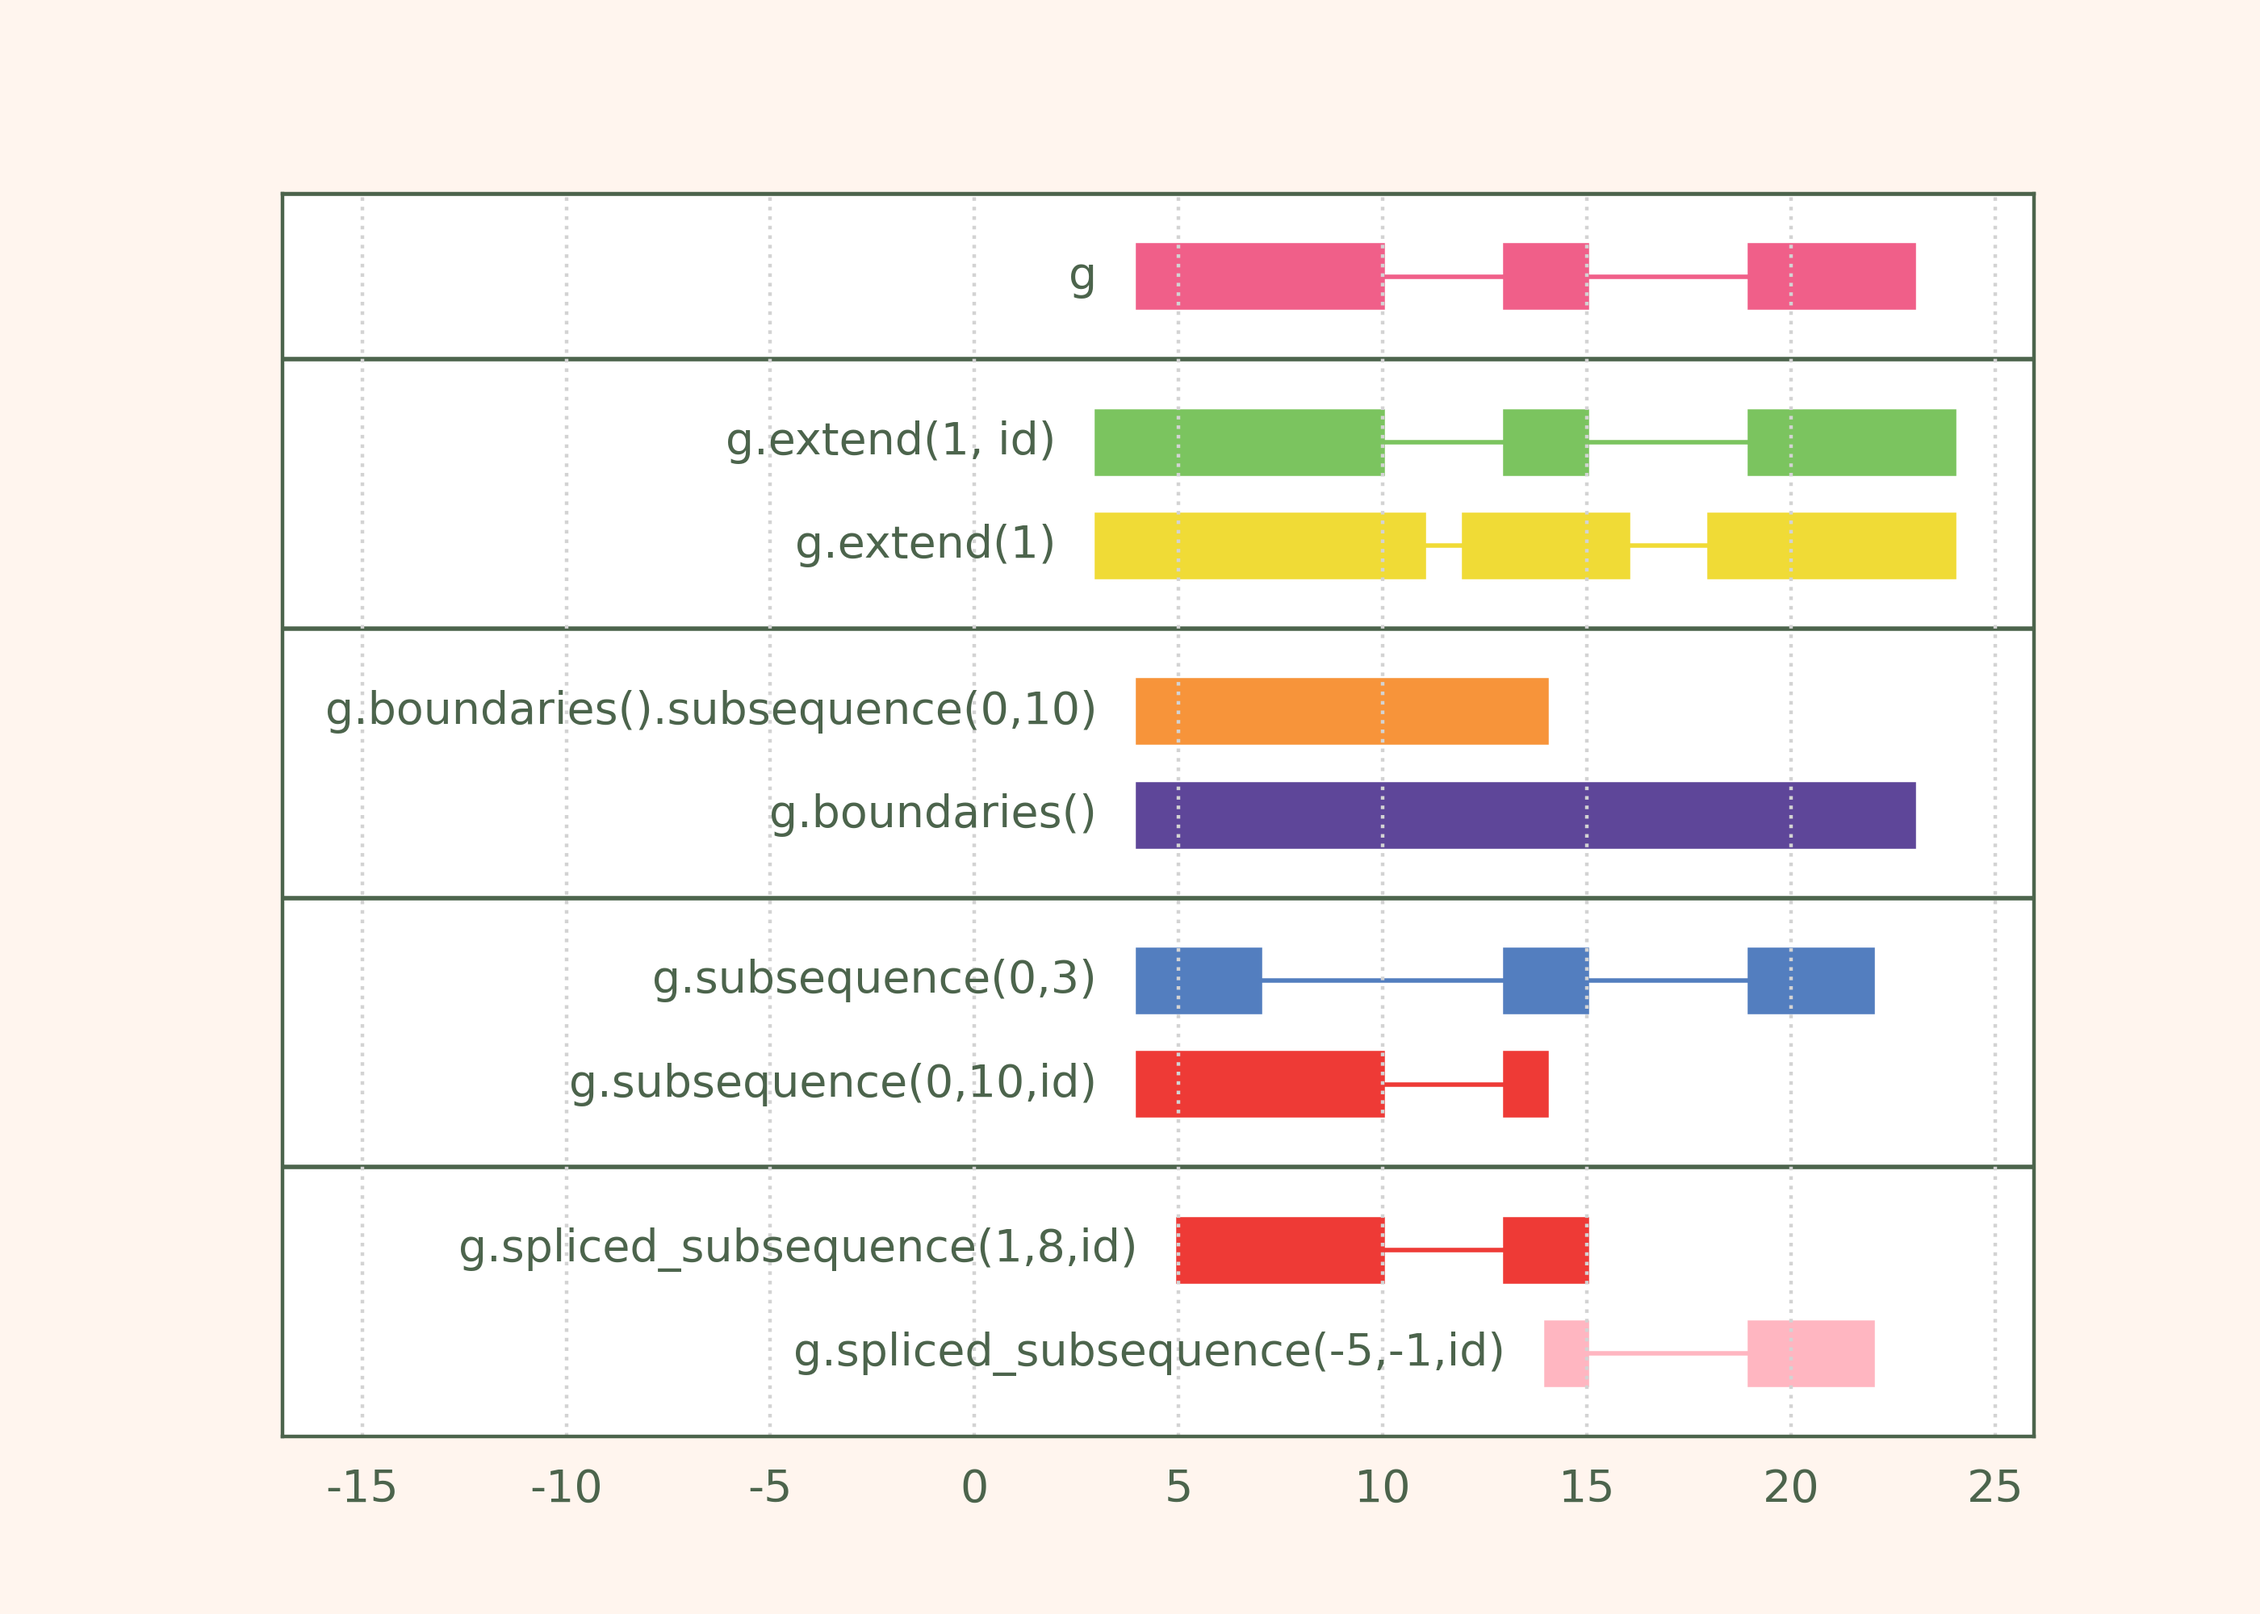
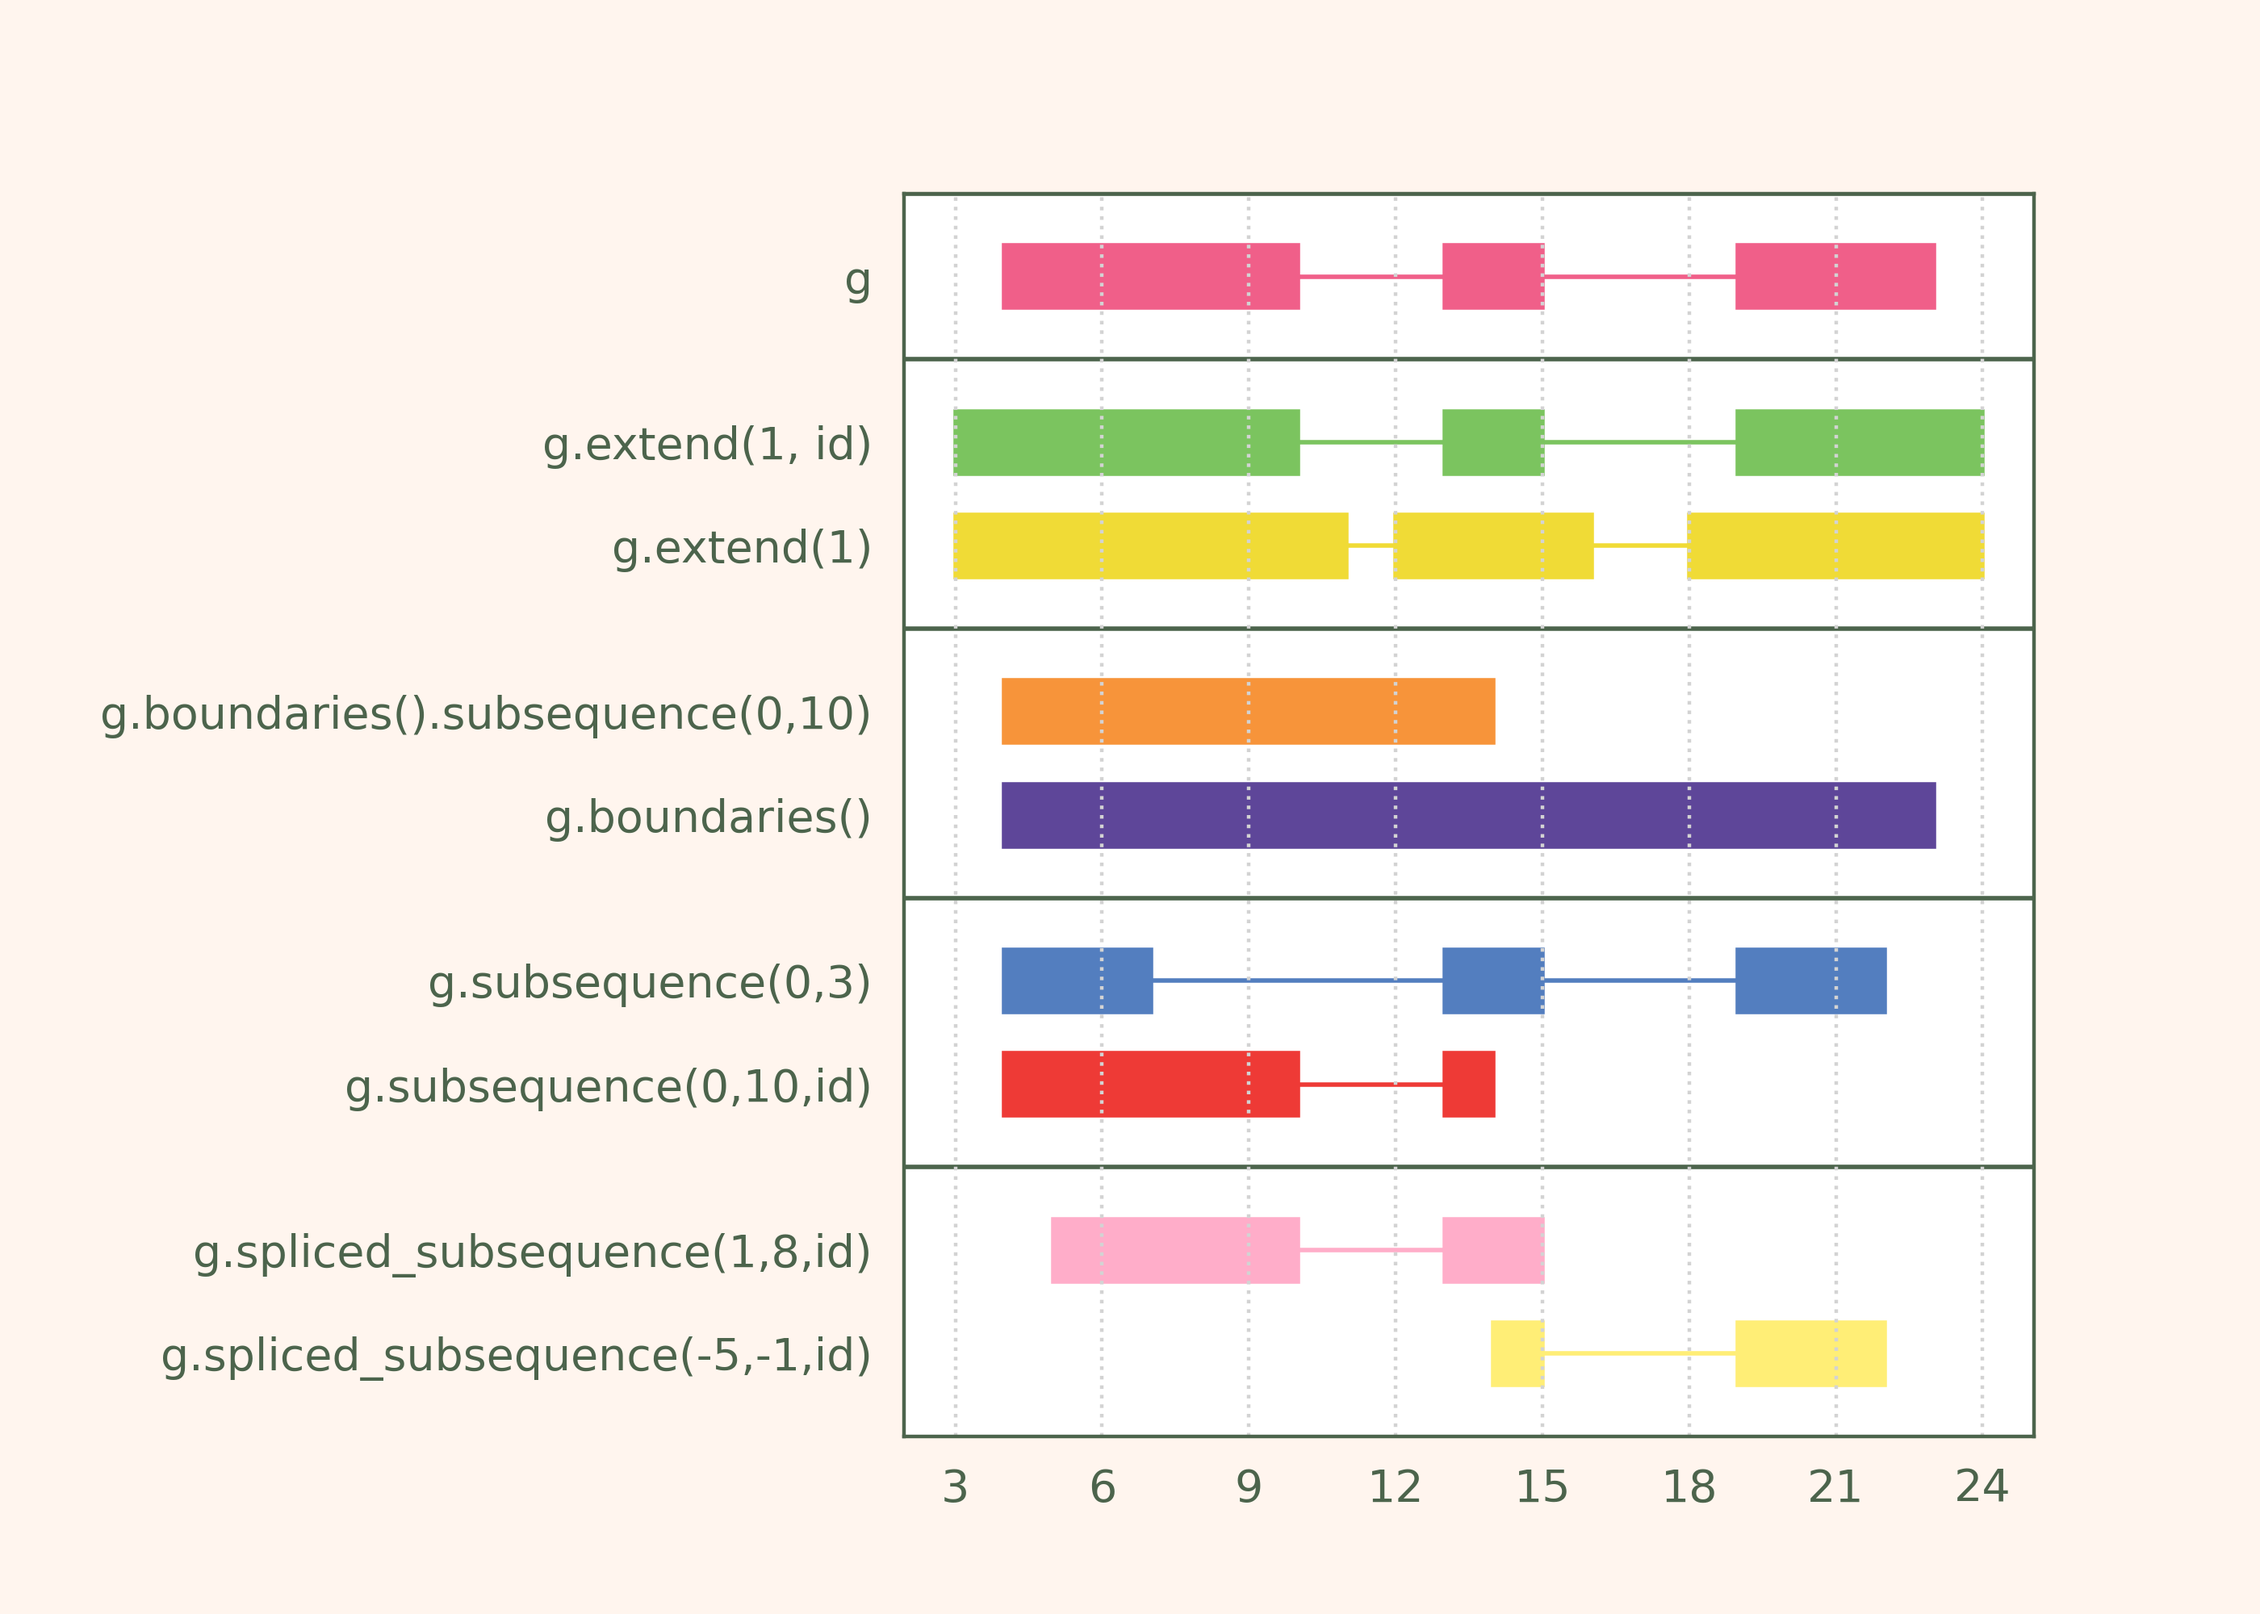
Update manuscript figures.

diff --git a/examples/pr_fig_3a.py b/examples/pr_fig_3a.py
@@ -1,6 +1,6 @@
 import pyranges as pr
 import pyranges_plot as prp
-from pyranges_plot.plot_features import builtin_themes
+import matplotlib.pyplot as plt
 
 # Load data
 g = pr.PyRanges(
@@ -42,8 +42,9 @@ g_spl_subseq_rev["transcript_id"] = ["g.spliced_subsequence(-5,-1,id)"] * len(
 
 # Get plot
 prp.set_engine("plt")
-cmap = builtin_themes["Mariotti_lab"]["colormap"]
-cmap += ["lightpink", "lightyellow"]
+# customize left margin to fit titles
+ori_margin = plt.rcParams["figure.subplot.left"]
+plt.rcParams["figure.subplot.left"] = 0.4
 
 prp.plot(
     [
@@ -53,13 +54,13 @@ prp.plot(
         pr.concat([g_subseq, g_subseq_id]),
         pr.concat([g_spl_subseq_for, g_spl_subseq_rev]),
     ],
+    packed=False,
     warnings=False,
     id_col="transcript_id",
     title_chr=" ",
-    limits=(-15, None),
     to_file=("fig_3a.png", (700, 500)),
-    text=True,
-    text_pad=0.05,
     theme="Mariotti_lab",
-    colormap=cmap,
 )
+
+# reset rcparams
+plt.rcParams["figure.subplot.left"] = ori_margin

diff --git a/examples/pr_fig_3b.py b/examples/pr_fig_3b.py
@@ -1,5 +1,6 @@
 import pyranges as pr
 import pyranges_plot as prp
+import matplotlib.pyplot as plt
 
 # Start r object
 r = pr.PyRanges(
@@ -28,14 +29,19 @@ r_tile["transcript_id"] = ["r.tile(2)"] * len(r_tile)  # rename for plot
 # Get plot
 prp.set_engine("plt")
 
+# customize left margin to fit titles
+ori_margin = plt.rcParams["figure.subplot.left"]
+plt.rcParams["figure.subplot.left"] = 0.27
+
 prp.plot(
     [r, r_window, tile_g, r_tile],
+    packed=False,
     id_col="transcript_id",
     exon_border="black",
     title_chr=" ",
-    limits=(-8, None),
-    to_file=("fig_3b.png", (700, 400)),
-    text=True,
-    text_pad=0.05,
+    to_file=("fig_3b.png", (600, 400)),
     theme="Mariotti_lab",
 )
+
+# reset rcparams
+plt.rcParams["figure.subplot.left"] = ori_margin

diff --git a/src/pyranges_plot/plot_features.py b/src/pyranges_plot/plot_features.py
@@ -80,17 +80,20 @@ theme_dark = {
 }
 
 # Mariotti theme
+ori_l = ["#f05f89", "#f0db36", "#7bc45f", "#5e4699", "#f7943a", "#537ebf", "#ee3a36"]
+darker_l = ["#9b3c59", "#a28b22", "#4d6e3a", "#3c285f", "#a46327", "#345a7d", "#9c2523"]
+lighter_l = [
+    "#ffadc9",
+    "#ffee76",
+    "#a8e89a",
+    "#816bb9",
+    "#ffc56b",
+    "#82b3ff",
+    "#ff7a74",
+]
+
 theme_mariotti = {
-    "colormap": [
-        "#f05f89",
-        "#f0db36",
-        "#7bc45f",
-        "#5e4699",
-        "#f7943a",
-        "#537ebf",
-        "#ee3a36",
-        "#ee3a36",
-    ],
+    "colormap": ori_l + lighter_l + darker_l,
     "shrunk_bkg": "#e7e0f5",
     "fig_bkg": "#fff5ee",
     "title_color": "#590000",

diff --git a/examples/pr_fig_3c.py b/examples/pr_fig_3c.py
@@ -45,9 +45,11 @@ a_subt_b["to_color"] = ["subtract"] * len(a_subt_b)
 
 # Get plot
 prp.set_engine("plt")
+
 # customize left margin to fit titles
 ori_margin = plt.rcParams["figure.subplot.left"]
-plt.rcParams["figure.subplot.left"] = 0.4  # Adjust the left margin
+plt.rcParams["figure.subplot.left"] = 0.4
+
 prp.plot(
     [
         a,
